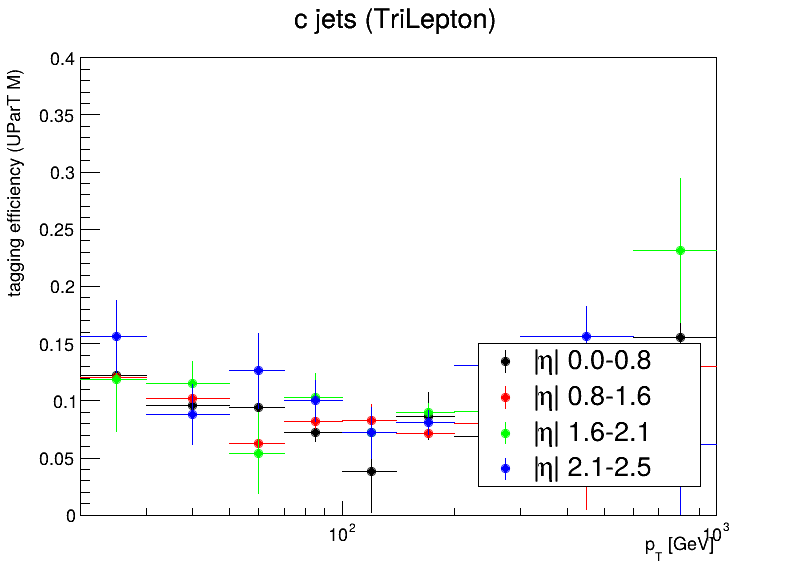
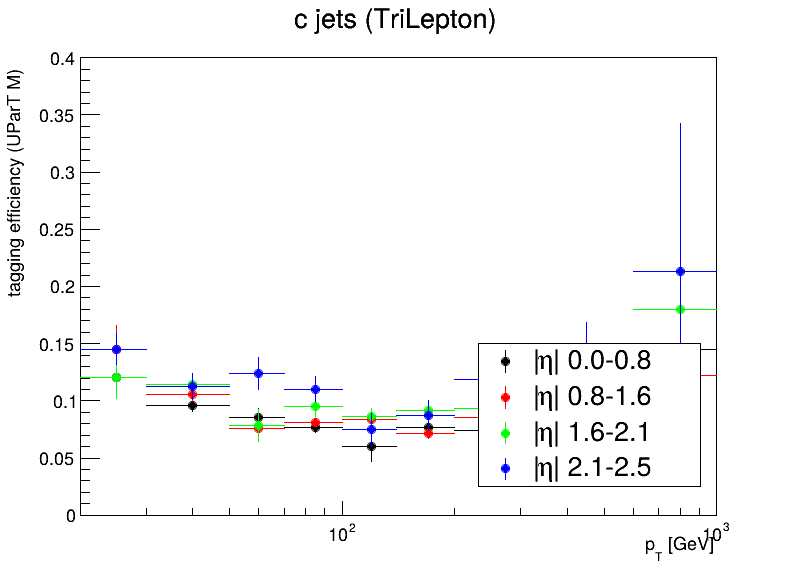
b-tag cross-check with the final TriLepton production; SRS limits
Claude-Session: https://claude.ai/code/session_019Dj4k2CsjooXqEsVcZpA2j

diff --git a/docs/LOG_ObjectID.md b/docs/LOG_ObjectID.md
@@ -4,6 +4,10 @@ Decisions and findings for the ObjectID section of AN-26-267: lepton, jet, b-jet
 
 
 
+## 2026-11-28 (b-tag cross-check with the final TriLepton production)
+
+- **Cross-check (PLAN_Signal S1 (b))**: `BTagEff/python/makeBTagEff.py --crosscheck` on the final TriLepton production (`..._HcToWABTagEff`, BTagEffHists of the TriLepton preselection, 40 MC samples summed, signal and data excluded; gen x norm x PU), against the TTLL map, pT < 300 GeV (28 bins per flavour): b ratio TriLepton/TTLL median 0.99 (0.91-1.01); light median 1.00 (0.60-1.38, statistics); c median 0.75 (0.52-0.99): the c efficiency is sample dependent (c jets from W -> cs / gluon splitting in WZ, ttV vs tt). The map stays the TTLL one (S1 (a)); the c dependence is a candidate for an additional b-tag efficiency uncertainty (open, later phase). Table `BTagEff/results/2024/efficiencies.txt` (replaces the partial Val cross-check), plots `BTagEff/plots/AN/2024/eff_*_TriLepton.png`; the JSON is unchanged.
+
 ## 2026-11-28 (AN: b-tag efficiencies measured on TTLL, method 1a map)
 
 - **Written** (an-writer) in `docs/AN-26-267/Sections/ObjectID.tex` (`ssec:BJetID`, `ssec:BTagSFEffect`) and `Appendix/ObjectID.tex` (`appendix:BTaggingEfficiency`):
